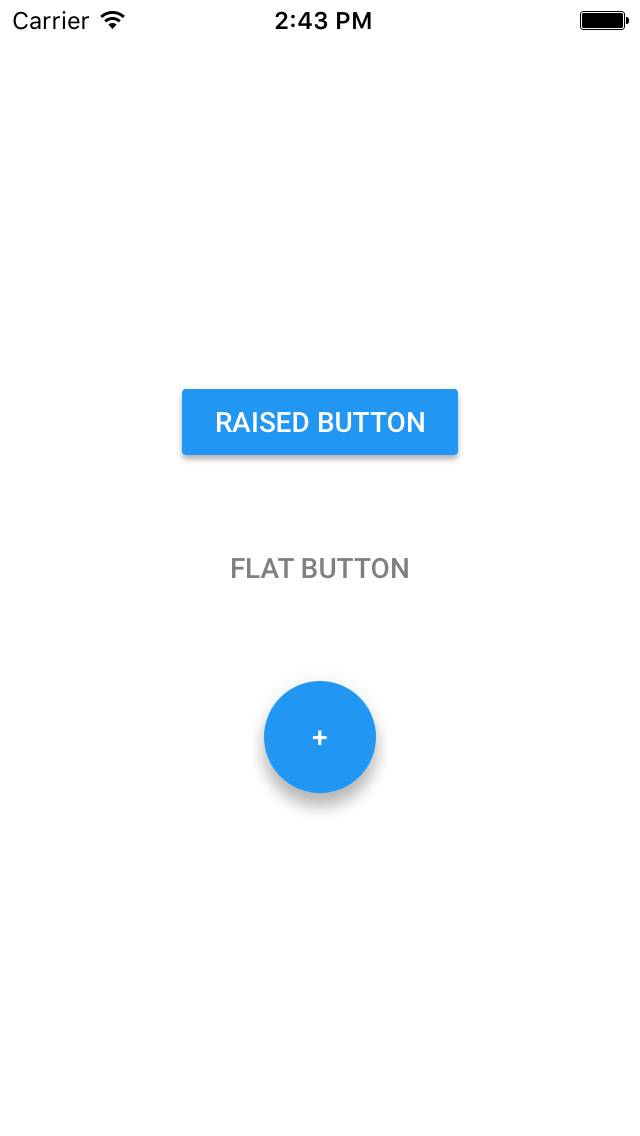
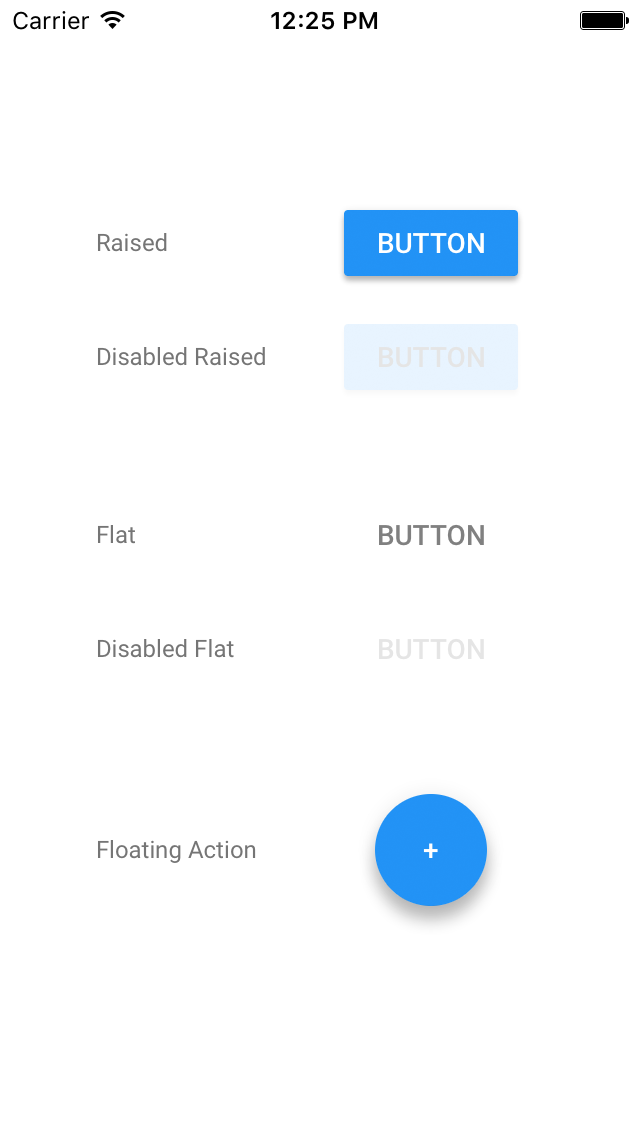
[Buttons] Layout design updates for buttons demo.
Summary:
  - added labels
  - two column alignment

Screenshot:
http://codereview.cc/D503

Reviewers: junius, ajsecord, #mdc_ios_owners

Reviewed By: junius, ajsecord, #mdc_ios_owners

Projects: #material_components_ios

Differential Revision: http://codereview.cc/D503

diff --git a/components/Buttons/examples/ButtonsSimpleExampleViewController.m b/components/Buttons/examples/ButtonsSimpleExampleViewController.m
@@ -17,6 +17,7 @@
 #import "ButtonsSimpleExampleViewController.h"
 
 #import "MaterialButtons.h"
+#import "MaterialTypography.h"
 
 @implementation ButtonsSimpleExampleViewController
 
@@ -24,8 +25,10 @@
   [super viewDidLoad];
   self.view.backgroundColor = [UIColor whiteColor];
 
+  // Raised button and label
+
   MDCRaisedButton *raisedButton = [[MDCRaisedButton alloc] init];
-  [raisedButton setTitle:@"Raised Button" forState:UIControlStateNormal];
+  [raisedButton setTitle:@"Button" forState:UIControlStateNormal];
   [raisedButton sizeToFit];
   [raisedButton addTarget:self
                    action:@selector(didTap:)
@@ -33,8 +36,18 @@
   raisedButton.translatesAutoresizingMaskIntoConstraints = NO;
   [self.view addSubview:raisedButton];
 
+  UILabel *raisedButtonLabel = [[UILabel alloc] init];
+  raisedButtonLabel.text = @"Raised";
+  raisedButtonLabel.font = [MDCTypography captionFont];
+  raisedButtonLabel.alpha = [MDCTypography captionFontOpacity];
+  [raisedButtonLabel sizeToFit];
+  raisedButtonLabel.translatesAutoresizingMaskIntoConstraints = NO;
+  [self.view addSubview:raisedButtonLabel];
+
+  // Disabled raised button and label
+
   MDCRaisedButton *disabledRaisedButton = [[MDCRaisedButton alloc] init];
-  [disabledRaisedButton setTitle:@"Disabled Raised" forState:UIControlStateNormal];
+  [disabledRaisedButton setTitle:@"Button" forState:UIControlStateNormal];
   [disabledRaisedButton sizeToFit];
   [disabledRaisedButton addTarget:self
                            action:@selector(didTap:)
@@ -43,8 +56,18 @@
   disabledRaisedButton.translatesAutoresizingMaskIntoConstraints = NO;
   [self.view addSubview:disabledRaisedButton];
 
+  UILabel *disabledRaisedButtonLabel = [[UILabel alloc] init];
+  disabledRaisedButtonLabel.text = @"Disabled Raised";
+  disabledRaisedButtonLabel.font = [MDCTypography captionFont];
+  disabledRaisedButtonLabel.alpha = [MDCTypography captionFontOpacity];
+  [disabledRaisedButtonLabel sizeToFit];
+  disabledRaisedButtonLabel.translatesAutoresizingMaskIntoConstraints = NO;
+  [self.view addSubview:disabledRaisedButtonLabel];
+
+  // Flat button and label
+
   MDCFlatButton *flatButton = [[MDCFlatButton alloc] init];
-  [flatButton setTitle:@"Flat Button" forState:UIControlStateNormal];
+  [flatButton setTitle:@"Button" forState:UIControlStateNormal];
   [flatButton setCustomTitleColor:[UIColor grayColor]];
   [flatButton sizeToFit];
   [flatButton addTarget:self
@@ -53,8 +76,18 @@
   flatButton.translatesAutoresizingMaskIntoConstraints = NO;
   [self.view addSubview:flatButton];
 
+  UILabel *flatButtonLabel = [[UILabel alloc] init];
+  flatButtonLabel.text = @"Flat";
+  flatButtonLabel.font = [MDCTypography captionFont];
+  flatButtonLabel.alpha = [MDCTypography captionFontOpacity];
+  [flatButtonLabel sizeToFit];
+  flatButtonLabel.translatesAutoresizingMaskIntoConstraints = NO;
+  [self.view addSubview:flatButtonLabel];
+
+  // Disabled flat button and label
+
   MDCFlatButton *disabledFlatButton = [[MDCFlatButton alloc] init];
-  [disabledFlatButton setTitle:@"Disabled Flat" forState:UIControlStateNormal];
+  [disabledFlatButton setTitle:@"Button" forState:UIControlStateNormal];
   [disabledFlatButton setCustomTitleColor:[UIColor grayColor]];
   [disabledFlatButton sizeToFit];
   [disabledFlatButton addTarget:self
@@ -63,6 +96,16 @@
   [disabledFlatButton setEnabled:NO];
   disabledFlatButton.translatesAutoresizingMaskIntoConstraints = NO;
   [self.view addSubview:disabledFlatButton];
+
+  UILabel *disabledFlatButtonLabel = [[UILabel alloc] init];
+  disabledFlatButtonLabel.text = @"Disabled Flat";
+  disabledFlatButtonLabel.font = [MDCTypography captionFont];
+  disabledFlatButtonLabel.alpha = [MDCTypography captionFontOpacity];
+  [disabledFlatButtonLabel sizeToFit];
+  disabledFlatButtonLabel.translatesAutoresizingMaskIntoConstraints = NO;
+  [self.view addSubview:disabledFlatButtonLabel];
+
+  // Floating action button and label
 
   MDCFloatingButton *floatingButton = [[MDCFloatingButton alloc] init];
   [floatingButton setTitle:@"+" forState:UIControlStateNormal];
@@ -73,35 +116,100 @@
   floatingButton.translatesAutoresizingMaskIntoConstraints = NO;
   [self.view addSubview:floatingButton];
 
+  UILabel *floatingButtonLabel = [[UILabel alloc] init];
+  floatingButtonLabel.text = @"Floating Action";
+  floatingButtonLabel.font = [MDCTypography captionFont];
+  floatingButtonLabel.alpha = [MDCTypography captionFontOpacity];
+  [floatingButtonLabel sizeToFit];
+  floatingButtonLabel.translatesAutoresizingMaskIntoConstraints = NO;
+  [self.view addSubview:floatingButtonLabel];
+
   NSDictionary *views = @{
     @"raised" : raisedButton,
+    @"raisedLabel" : raisedButtonLabel,
     @"disabledRaised" : disabledRaisedButton,
+    @"disabledRaisedLabel" : disabledRaisedButtonLabel,
     @"flat" : flatButton,
+    @"flatLabel" : flatButtonLabel,
     @"disabledFlat" : disabledFlatButton,
+    @"disabledFlatLabel" : disabledFlatButtonLabel,
     @"floating" : floatingButton,
+    @"floatingLabel" : floatingButtonLabel
   };
-  NSString *layoutConstraints =
-      @"V:[raised]-20-[disabledRaised]-40-[flat]-20-[disabledFlat]-40-[floating]";
+
+  NSDictionary *metrics = @{ @"smallVMargin" : @24.0,
+                             @"largeVMargin" : @56.0,
+                             @"smallHMargin" : @24.0,
+                             @"buttonHeight" : @(raisedButton.bounds.size.height),
+                             @"fabHeight" : @(floatingButton.bounds.size.height) };
+
+  // Vertical column of buttons
+  NSString *buttonLayoutConstraints =
+      @"V:[raised]-smallVMargin-"
+       "[disabledRaised]-largeVMargin-"
+       "[flat]-smallVMargin-"
+       "[disabledFlat]-largeVMargin-"
+       "[floating]";
+
+  // Vertical column of labels
+  NSString *labelLayoutConstraints =
+      @"V:[raisedLabel(buttonHeight)]-smallVMargin-"
+       "[disabledRaisedLabel(buttonHeight)]-largeVMargin-"
+       "[flatLabel(buttonHeight)]-smallVMargin-"
+       "[disabledFlatLabel(buttonHeight)]-largeVMargin-"
+       "[floatingLabel(fabHeight)]";
+
+  // Horizontal alignment between the two columns
+  NSString *columnConstraints = @"[raisedLabel(100)]-smallHMargin-[raised]";
+
+  // Center view horizontally on the left edge of one of the buttons
   [self.view addConstraint:
                  [NSLayoutConstraint constraintWithItem:flatButton
-                                              attribute:NSLayoutAttributeCenterX
+                                              attribute:NSLayoutAttributeLeft
                                               relatedBy:NSLayoutRelationEqual
                                                  toItem:self.view
                                               attribute:NSLayoutAttributeCenterX
                                              multiplier:1.f
-                                               constant:0.f]];
+                                               constant:12.f]];
+
+  // Center view vertically on the flat button (it's the middlemost)
   [self.view addConstraint:
                  [NSLayoutConstraint constraintWithItem:flatButton
-                                              attribute:NSLayoutAttributeCenterY
+                                              attribute:NSLayoutAttributeBottom
                                               relatedBy:NSLayoutRelationEqual
                                                  toItem:self.view
                                               attribute:NSLayoutAttributeCenterY
                                              multiplier:1.f
                                                constant:0.f]];
+
+  // Center buttons in their column
   [self.view addConstraints:
-                 [NSLayoutConstraint constraintsWithVisualFormat:layoutConstraints
+                 [NSLayoutConstraint constraintsWithVisualFormat:buttonLayoutConstraints
                                                          options:NSLayoutFormatAlignAllCenterX
-                                                         metrics:nil
+                                                         metrics:metrics
+                                                           views:views]];
+  // Left align labels in their column
+  [self.view addConstraints:
+                 [NSLayoutConstraint constraintsWithVisualFormat:labelLayoutConstraints
+                                                         options:NSLayoutFormatAlignAllLeft
+                                                         metrics:metrics
+                                                           views:views]];
+
+  // Vertically align first element in label column to first element in button column
+  [self.view addConstraint:
+                 [NSLayoutConstraint constraintWithItem:raisedButton
+                                              attribute:NSLayoutAttributeCenterY
+                                              relatedBy:NSLayoutRelationEqual
+                                                 toItem:raisedButtonLabel
+                                              attribute:NSLayoutAttributeCenterY
+                                             multiplier:1.f
+                                               constant:0.f]];
+
+  // Position label column left of button column, wide enough to accommodate label text
+  [self.view addConstraints:
+                 [NSLayoutConstraint constraintsWithVisualFormat:columnConstraints
+                                                         options:0
+                                                         metrics:metrics
                                                            views:views]];
 }
 
